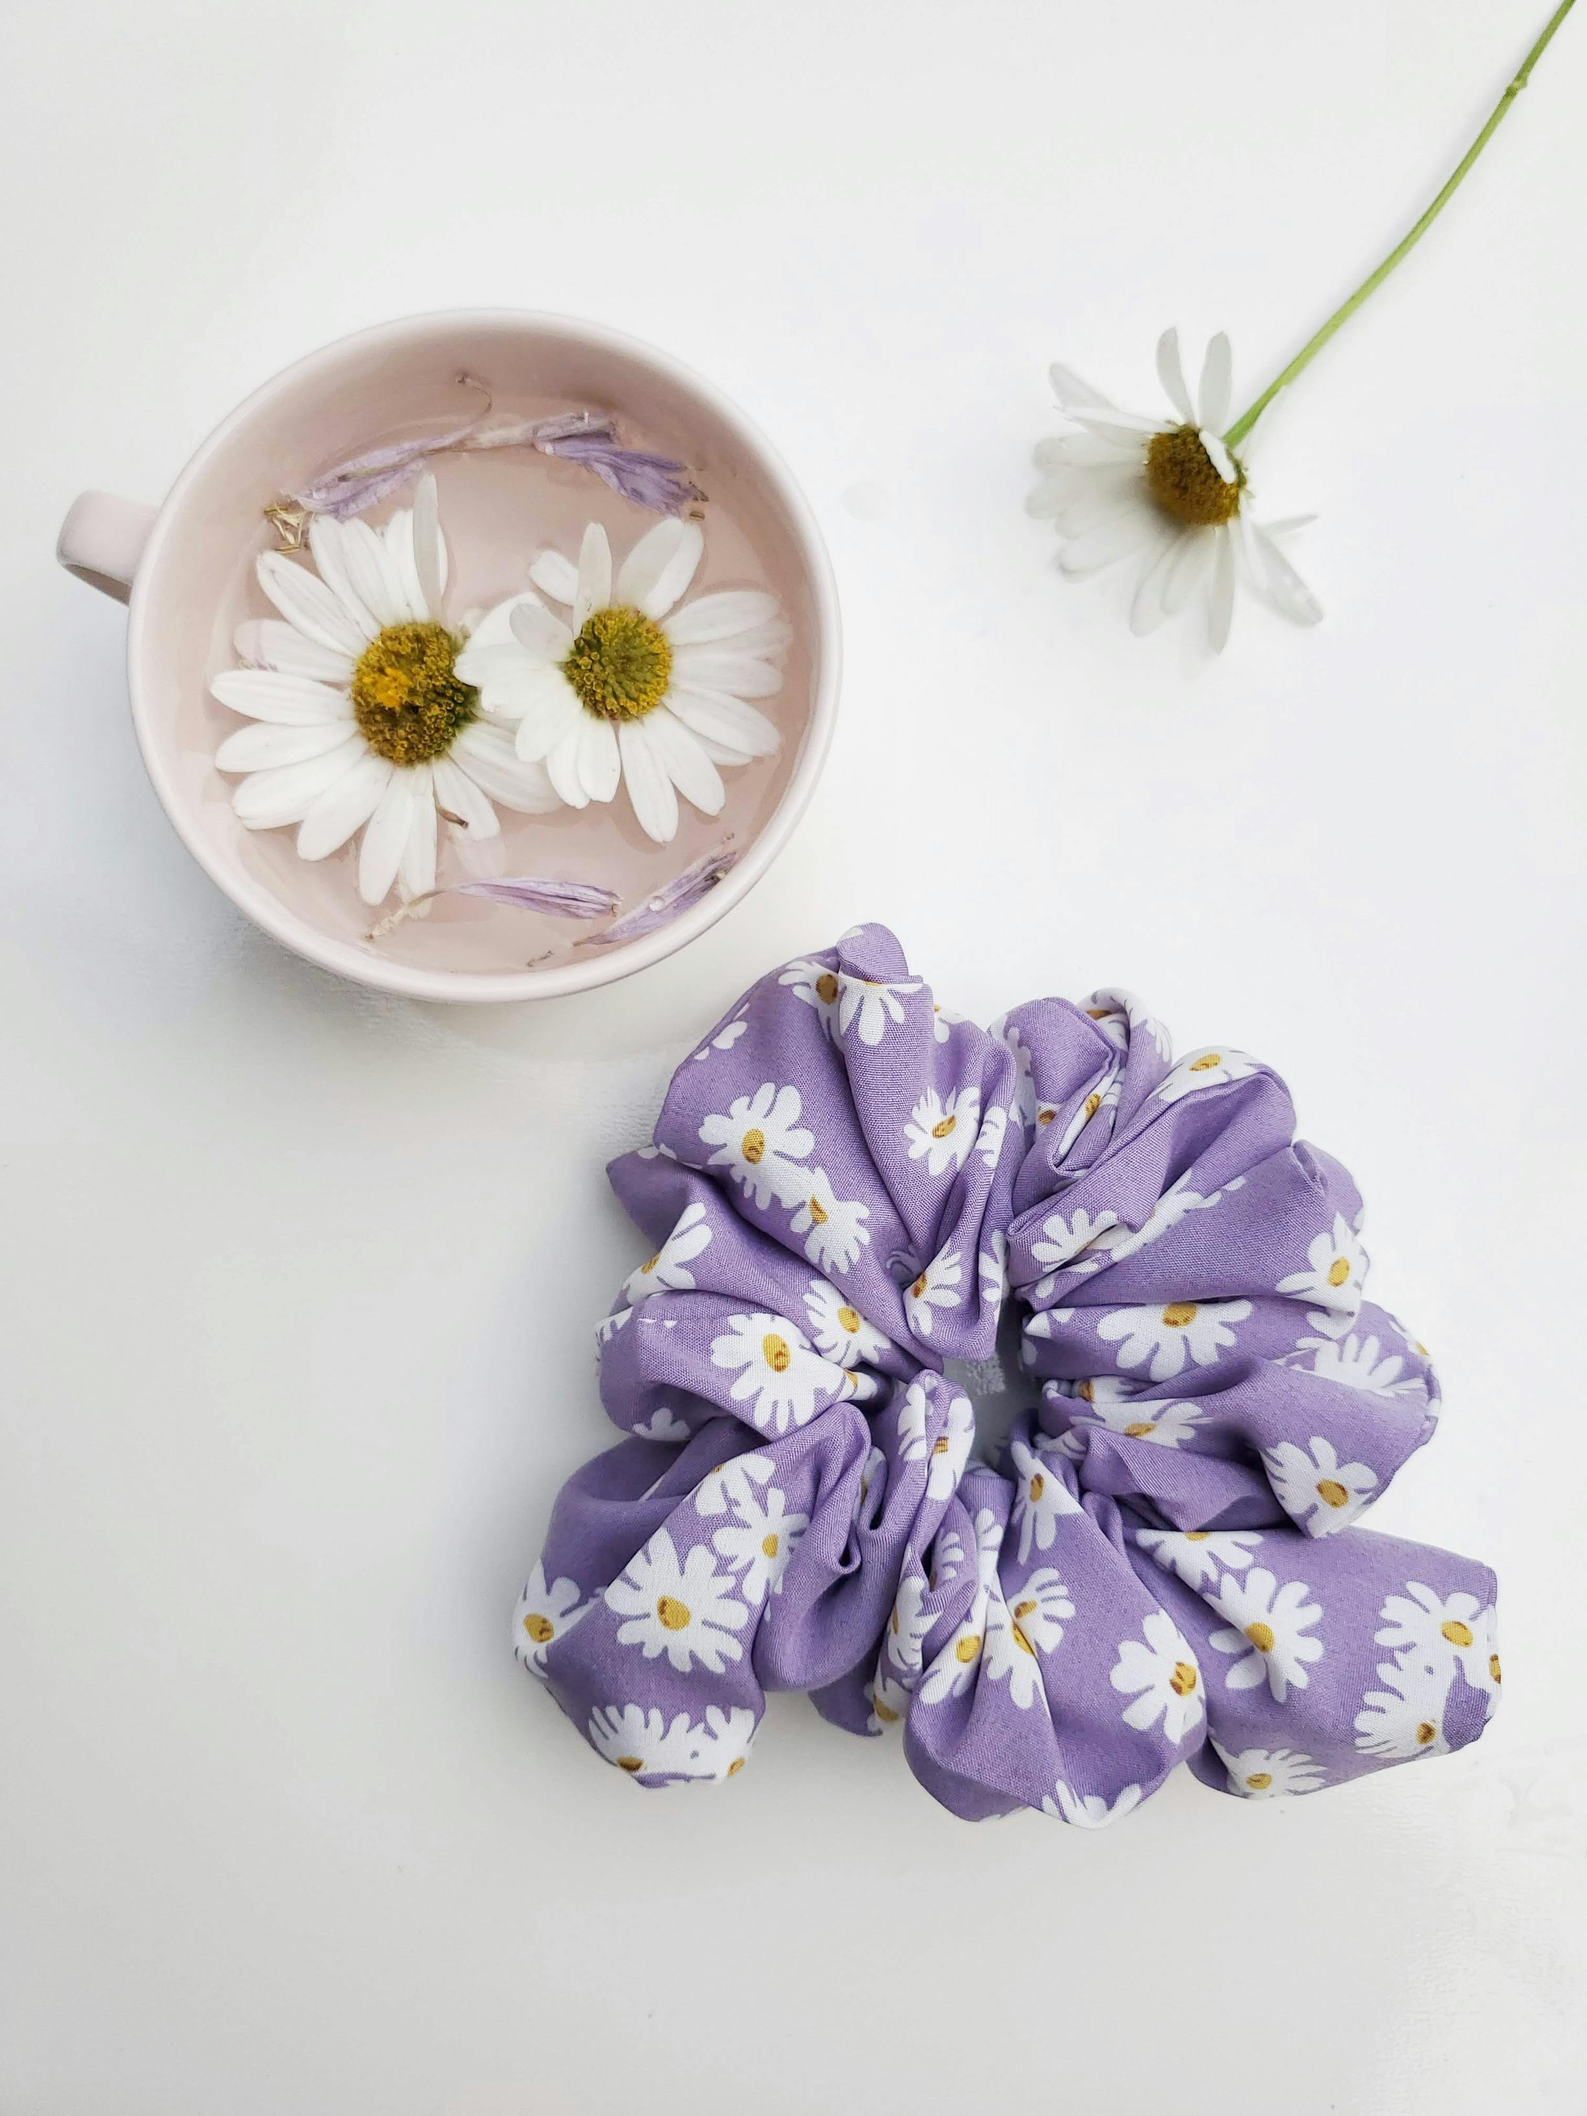
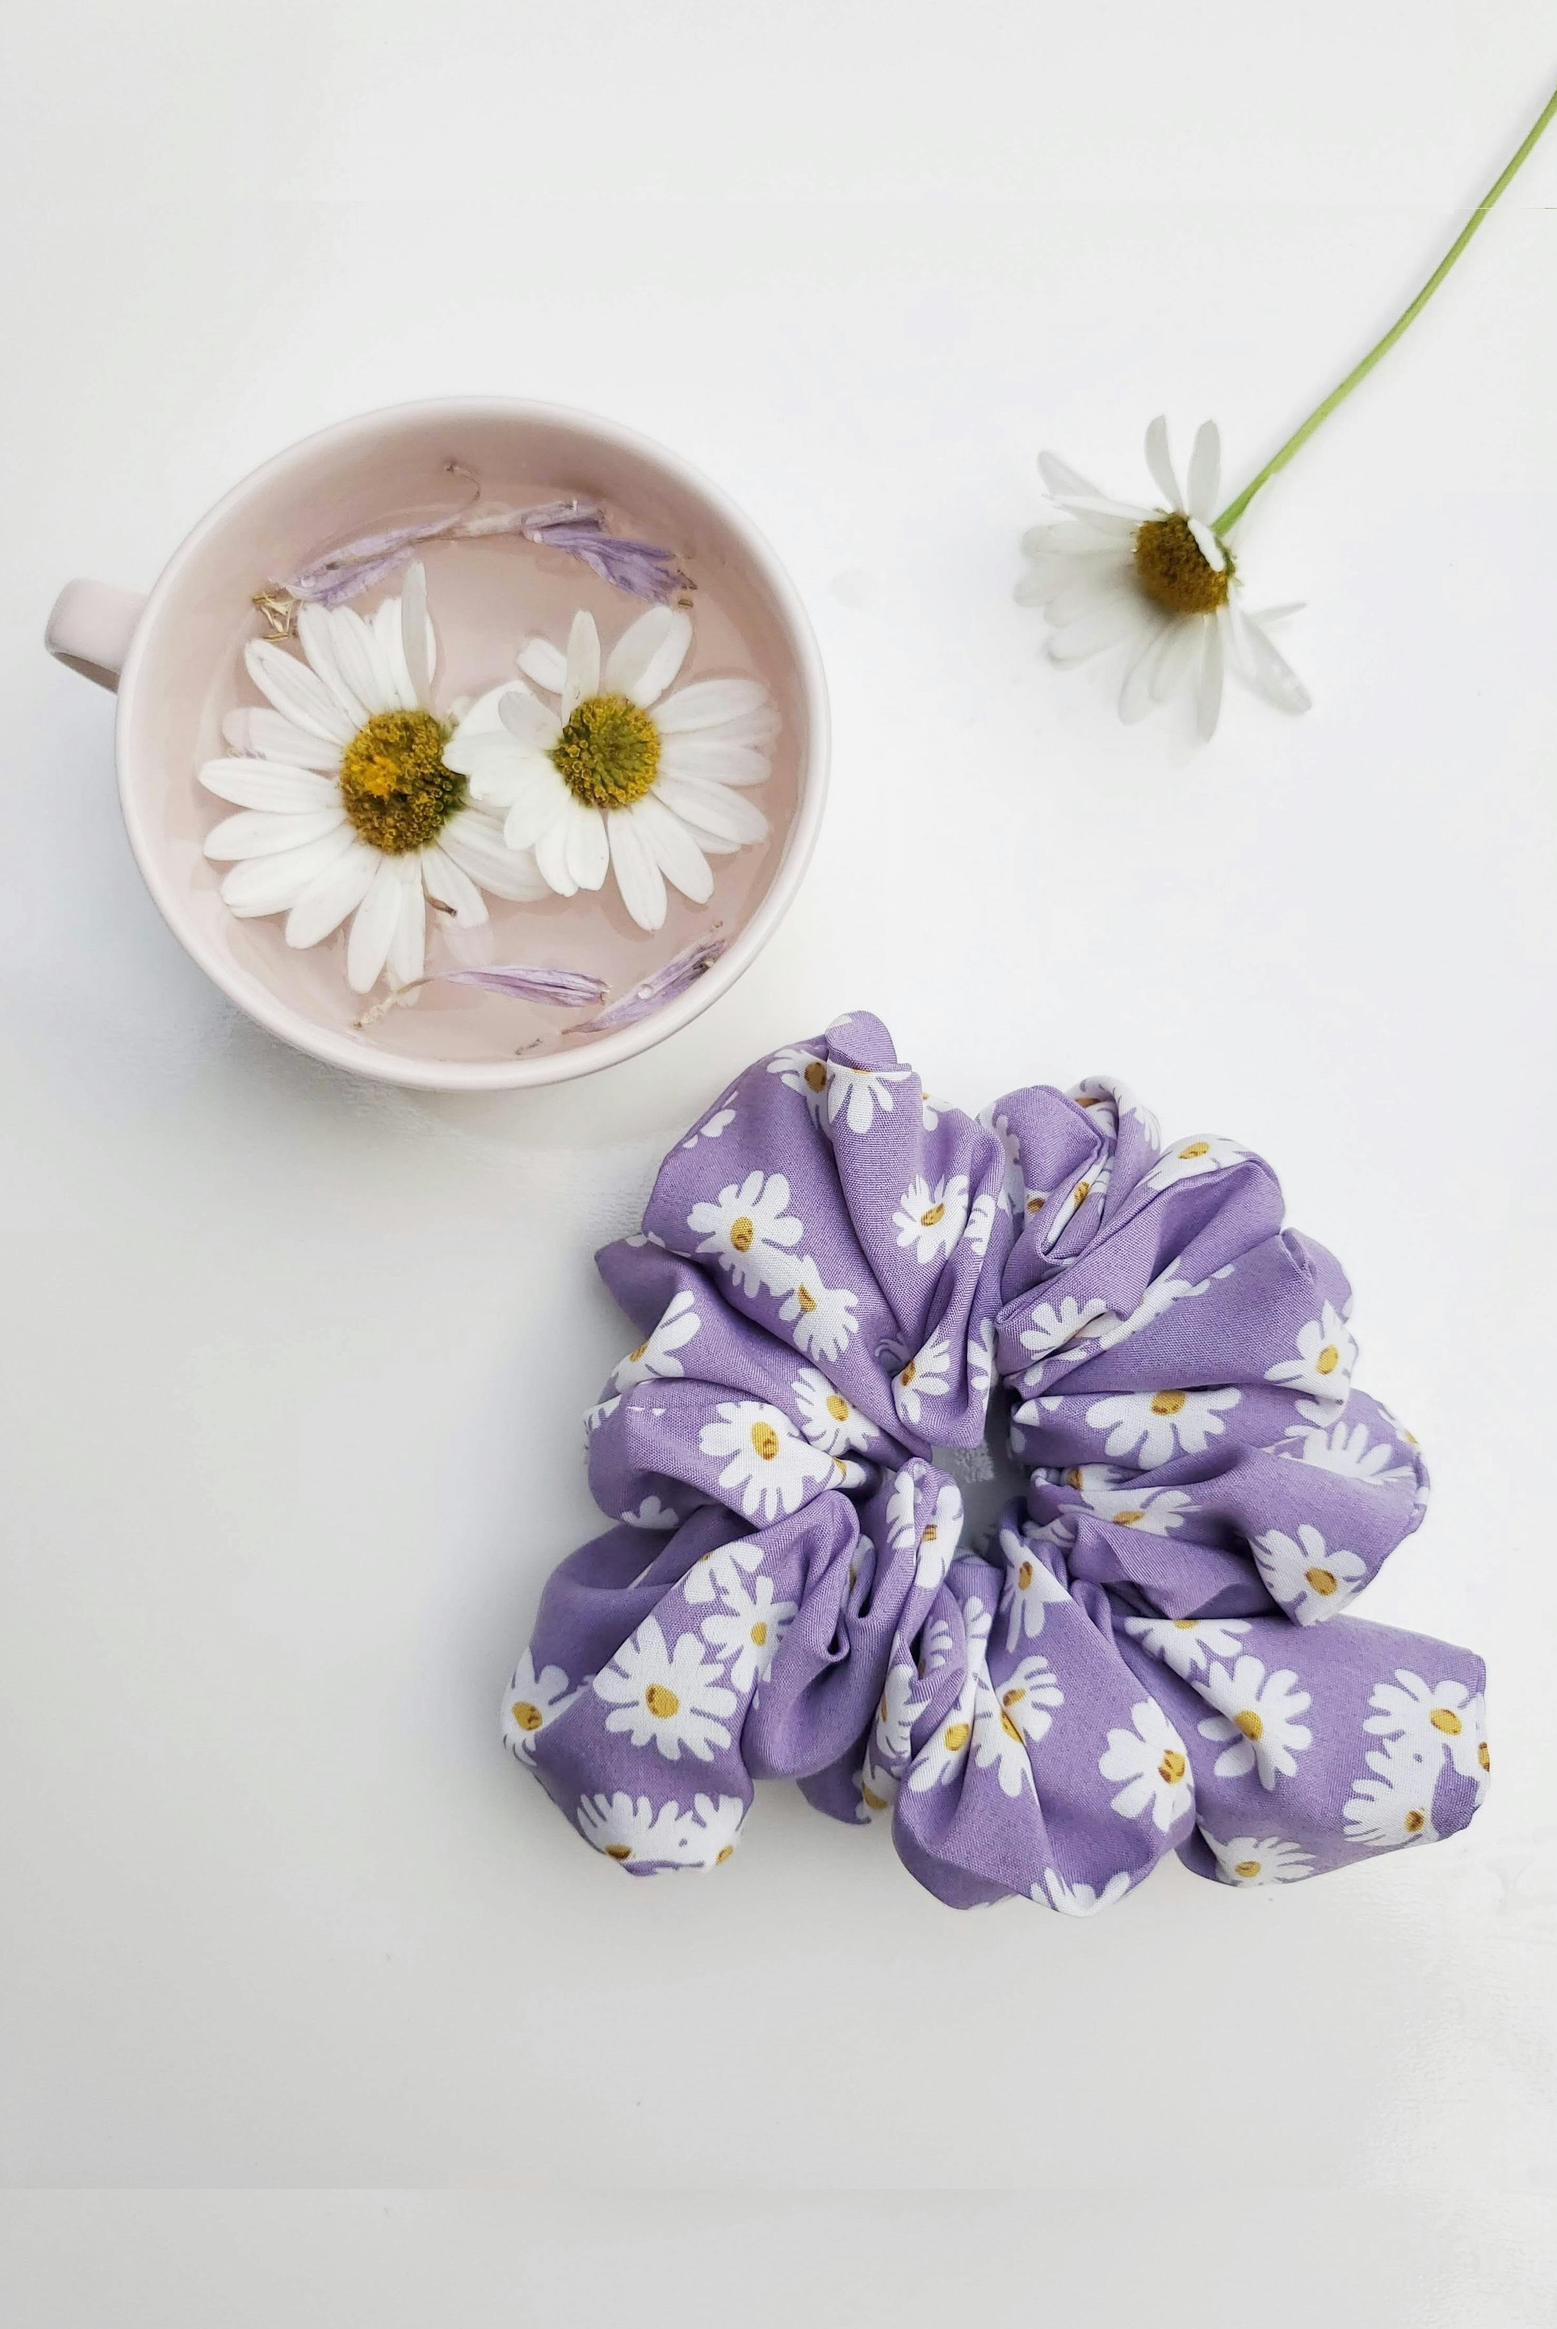
shopping cart frontend fixed, increase/decrease quantity buttons remaning

diff --git a/templates/index.html b/templates/index.html
@@ -29,7 +29,7 @@
         }
 
         function openNav() {
-        document.getElementById("mySidenav").style.width = "250px";
+        document.getElementById("mySidenav").style.width = "450px";
         }
 
         function closeNav() {
@@ -74,18 +74,39 @@
                 body: JSON.stringify(productData)
             })
             .then(response => response.json())
-            .then(data => alert(data.message)) // Show success message
+            .then(data => {
+                alert(data.message); // Show success message
+                return fetch('/get_cart_items');
+            })
+            .then(response => response.text())
+            .then(data_arr => {
+                data_arr = JSON.parse(data_arr);
+                console.log("data_arr:", data_arr);
+                document.getElementById('cart-items').innerHTML = '';
+                data_arr.forEach(data => {
+                    console.log("data:", data);
+                    console.log("data:", data.assets_img_name);
+                    document.getElementById('cart-items').innerHTML += `
+                    <tr class="cart-row-item">
+                        <td><img src="/static/images/${data.assets_img_name}" style="width: 50px;"></td>
+                        <td><h5>${data.assets_desc}</h5></td>
+                        <td><span class="btn btn-light" onclick="decr_qty();" style="background-color: #f7d9e2;">-</span>${data.cart_items_assets_quantity}<span class="btn btn-light" onclick="incr_qty();" style="background-color: #f7d9e2;">+</span></td>
+                        <td><h5>$ ${data.assets_price}</h5></td>
+                        <td><a href="#" class="text-danger" onclick="removeItem(${data.assets_id})"><i class="fas fa-trash-alt"></i></a></td>
+                    </tr>
+                    `;
+                });
+
+                let currentSubtotal = parseFloat(document.getElementById('subtotal').innerText.replace('$', ''));
+                let newSubtotal = currentSubtotal + (data.cart_items_assets_quantity * data.assets_price);
+                document.getElementById('subtotal').innerText = `$${newSubtotal.toFixed(2)}`;
+
+            })
             .catch(error => console.error("Error:", error));
 
-            document.getElementById('cart-items').innerHTML += `
-                <tr class="cart-row-item">
-                    <td><img src="/static/images/${productData.productImage}" style="width: 50px;"></td>
-                    <td><h5>${productData.productName}</h5></td>
-                    <td><h5>1</h5></td>
-                    <td><a href="#" class="text-danger" onclick="removeItem(${productData.productId})"><i class="fas fa-trash-alt"></i></a></td>
-                </tr>
-            `;
+            
         }
+
 
         function removeItem(productId) {
             console.log("product_id:"+ productId);

diff --git a/static/styles/index.css b/static/styles/index.css
@@ -190,9 +190,9 @@ body {
 
 .product-card{
     display: grid;
-    grid-template-rows: 1fr 0.15fr;
+    grid-template-rows: 1fr 0.3fr;
     position: relative;
-    min-height: 550px;
+    min-height: 600px;
 }
 
 .product-card:hover{
@@ -236,8 +236,12 @@ body {
 
 .cart-row-item{
     display: grid;
-    grid-template-columns: 1fr 1fr 1fr 1fr;
+    grid-template-columns: 15% 30% 30% 15% 10%;
+}
 
+table, tr, td {
+    padding: 0;
+    border: 1px solid #ccc;
 }
 
 

diff --git a/main_app.py b/main_app.py
@@ -292,6 +292,16 @@ def add_to_cart():
     # You can store this in a database or session
     return jsonify({"message": f"{data['productName']} added to cart!"})  # Send response
 
+@app.route('/get_cart_items')
+def get_cart_items():
+    login_id = login.get_login_id(session['username'])  # Get login ID from session
+    cart_id = cart.get_cart_id(login_id)         # Get cart ID from login ID    
+    #cartItem = cart_items.get_recent_cart_item(cart_id)
+    cartItems = cart_items.get_cart_items(cart_id)  # Get all cart items from cart ID
+    print("cartItems:", cartItems)  # Debugging: Print cart items
+    return jsonify(cartItems)  # Send cart items as JSON response
+
+
 @app.route('/remove_from_cart', methods=['POST'])
 def remove_from_cart():
     data = request.json  # Get product data from frontend
@@ -347,7 +357,7 @@ def create_checkout_session():
         cart_id_tuple = cart.get_cart_id(login_id)
         cart_id = cart_id_tuple[0] if isinstance(cart_id_tuple, tuple) else cart_id_tuple
 
-        #cartItems = cart_items.get_cart_items(cart_id)
+        
                
         if not cart_id or not isinstance(cart_id, int):
             return jsonify({'error': 'Invalid cart ID'}), 400
@@ -374,15 +384,7 @@ def create_checkout_session():
         
         line_items = []
         for item in cart_items:
-            assetId = item[0]
-            itemQuantity = item[3]
-            inStock = product_gallery.check_quantity(assetId, itemQuantity)
-            if not inStock:
-                return jsonify({'error': 'Item out of stock'}), 400
-            else:
-                print("Decreasing quantity for assetId:", assetId)
-                product_gallery.decrease_quantity(assetId, itemQuantity)
-
+            
             line_items.append({
                 'price_data': {
                     'currency': 'usd',
@@ -399,36 +401,11 @@ def create_checkout_session():
             line_items=line_items,
             mode='payment',
             success_url=request.host_url + 'checkout-success',
-            cancel_url=request.host_url + 'shoppingcart',
+            cancel_url=request.host_url,
         )
 
         print("stripe_session created")
         
-        for item in cart_items:
-            assetId = item[0]
-            itemQuantity = item[3]
-
-            assetPrice = product_gallery.get_asset_price(assetId)
-            total_asset_price = assetPrice[0] * itemQuantity
-            total_price += total_asset_price
-            print("Total price:", total_price)
-
-        # Add order to the database
-        orders.create_order(login_id, total_price, datetime.datetime.now())
-        print("Order created successfully!")
-        order_id = orders.get_order_id(login_id)
-
-        for item in cart_items:
-            assetId = item[0]
-            itemQuantity = item[3]
-            assetPrice = product_gallery.get_asset_price(assetId)
-            print("Adding order item for assetId:", assetId)
-            print("Order ID:", order_id)
-            print("Item Quantity:", itemQuantity)
-            print("Asset Price:", assetPrice)
-            order_items.add_order_item(order_id, assetId, itemQuantity, assetPrice)
-            print("Order item added successfully!")
-
         
         
         cursor.close()
@@ -444,12 +421,52 @@ def create_checkout_session():
 def checkout_success():
     if 'username' in session:
         try:
-            cart_id = cart.get_cart_id(login.get_login_id(session['username']))
+            print("session:", session['username'])
+            login_id = login.get_login_id(session['username'])
+            cart_id = cart.get_cart_id(login_id)
+            cartItems = cart_items.get_cart_items(cart_id)
+
+            for item in cartItems:
+                assetId = item[0]
+                itemQuantity = item[3]
+                inStock = product_gallery.check_quantity(assetId, itemQuantity)
+                if not inStock:
+                    return jsonify({'error': 'Item out of stock'}), 400
+                else:
+                    print("Decreasing quantity for assetId:", assetId)
+                    product_gallery.decrease_quantity(assetId, itemQuantity)
+
+            for item in cart_items:
+                assetId = item[0]
+                itemQuantity = item[3]
+
+                assetPrice = product_gallery.get_asset_price(assetId)
+                total_asset_price = assetPrice[0] * itemQuantity
+                total_price += total_asset_price
+                print("Total price:", total_price)
+
+            # Add order to the database
+            orders.create_order(login_id, total_price, datetime.datetime.now())
+            print("Order created successfully!")
+            order_id = orders.get_order_id(login_id)
+
+            for item in cart_items:
+                assetId = item[0]
+                itemQuantity = item[3]
+                assetPrice = product_gallery.get_asset_price(assetId)
+                print("Adding order item for assetId:", assetId)
+                print("Order ID:", order_id)
+                print("Item Quantity:", itemQuantity)
+                print("Asset Price:", assetPrice)
+                order_items.add_order_item(order_id, assetId, itemQuantity, assetPrice)
+                print("Order item added successfully!")
+
+
             # Clear the cart items and delete the cart
             cart_items.clear_cart_items(cart_id)
             cart.delete_cart(cart_id)
             print(f"Cart cleared for user: {session['username']}")
-        
+    
         except Exception as e:
             print(f"Error clearing cart after checkout: {e}")
 

diff --git a/cart_items.py b/cart_items.py
@@ -26,17 +26,35 @@ def get_cart_items(cart_id):
     if db.is_connected():
         cursor = db.cursor(dictionary=True)
         query = '''
-            SELECT assets_id, assets_type, assets_description, assets_price, assets_quantity, assets_img_name, cart_items_assets_quantity
+            SELECT assets_id, assets_type, assets_desc, assets_price, assets_quantity, assets_img_name, cart_items_assets_quantity
             FROM cart_items
-            JOIN new_assets ON cart_items.cart_items_assets_id = assets.assets_id
+            JOIN assets ON cart_items.cart_items_assets_id = assets.assets_id
             WHERE cart_items_cart_id = %s
         '''
+        cart_id = cart_id[0]
         cursor.execute(query, (cart_id,))
         cart_items = cursor.fetchall()
         cursor.close()
         return cart_items
     else:
         return None
+    
+def get_recent_cart_item(cart_id):
+    if db.is_connected():
+        cursor = db.cursor(dictionary=True)
+        query = '''
+            SELECT assets_id, assets_type, assets_desc, assets_price, assets_quantity, assets_img_name, cart_items_assets_quantity
+            FROM cart_items
+            JOIN assets ON cart_items.cart_items_assets_id = assets.assets_id
+            WHERE cart_items_cart_id = %s
+            ORDER BY cart_items_id DESC
+            LIMIT 1
+        '''
+        cart_id = cart_id[0]
+        cursor.execute(query, (cart_id,))
+        cart_item = cursor.fetchone()
+        cursor.close()
+        return cart_item
     
 def update_cart_item(cart_id, asset_id, quantity):
     if db.is_connected():

diff --git a/order_items.py b/order_items.py
@@ -56,7 +56,7 @@ def get_order_items(order_id):
     if db.is_connected():
         cursor = db.cursor(dictionary=True)
         query = '''
-            SELECT assets_id, assets_type, assets_description, assets_price, assets_quantity, assets_img_name, order_items_quantity
+            SELECT assets_id, assets_type, assets_desc, assets_price, assets_quantity, assets_img_name, order_items_quantity
             FROM order_items
             JOIN new_assets ON order_items.order_items_assets_id = assets.assets_id
             WHERE order_items_order_id = %s
